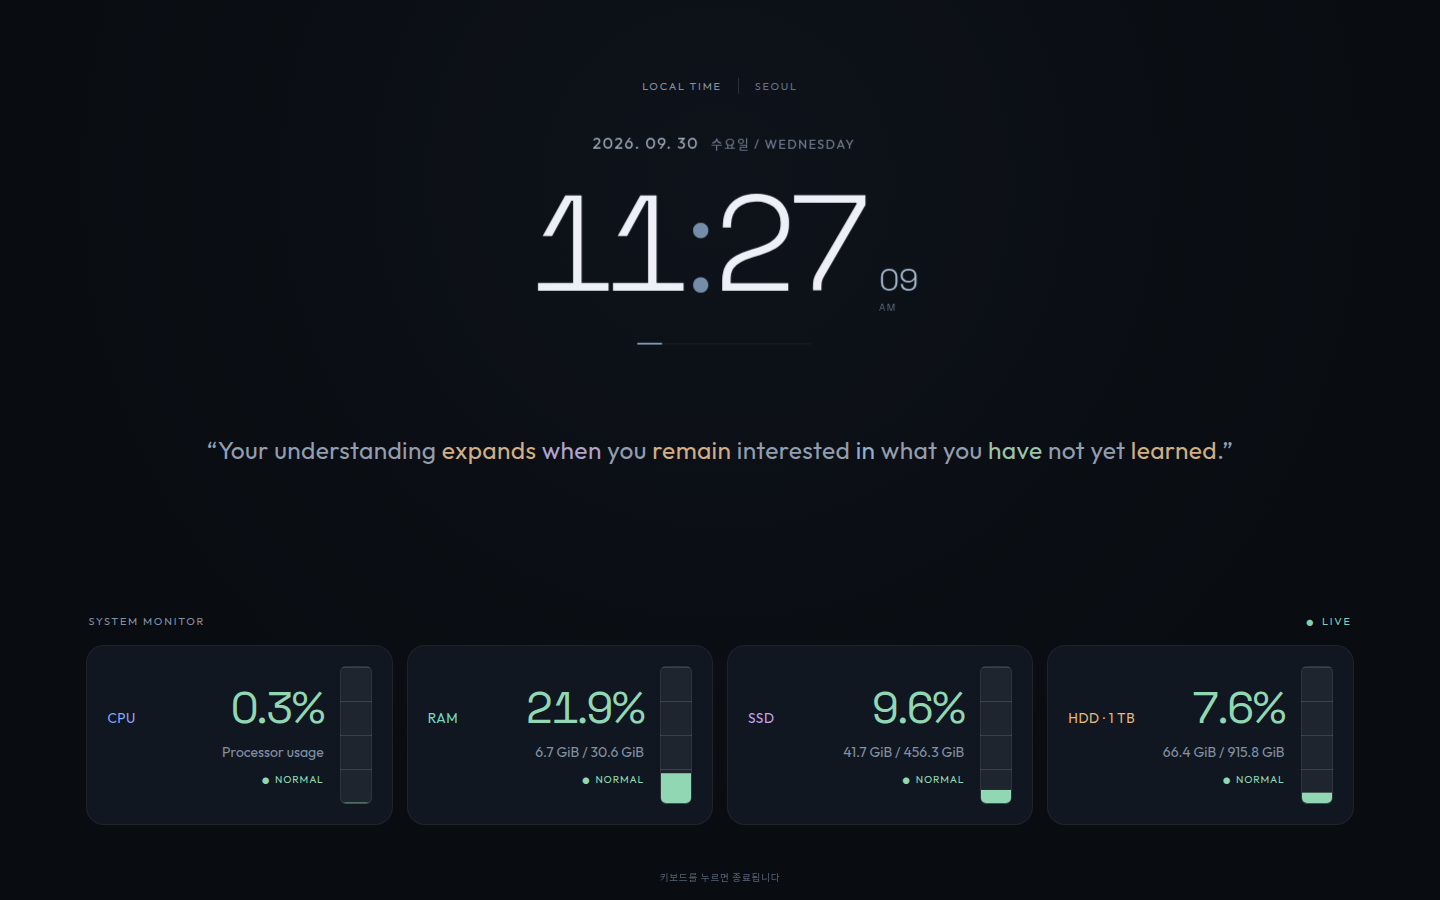
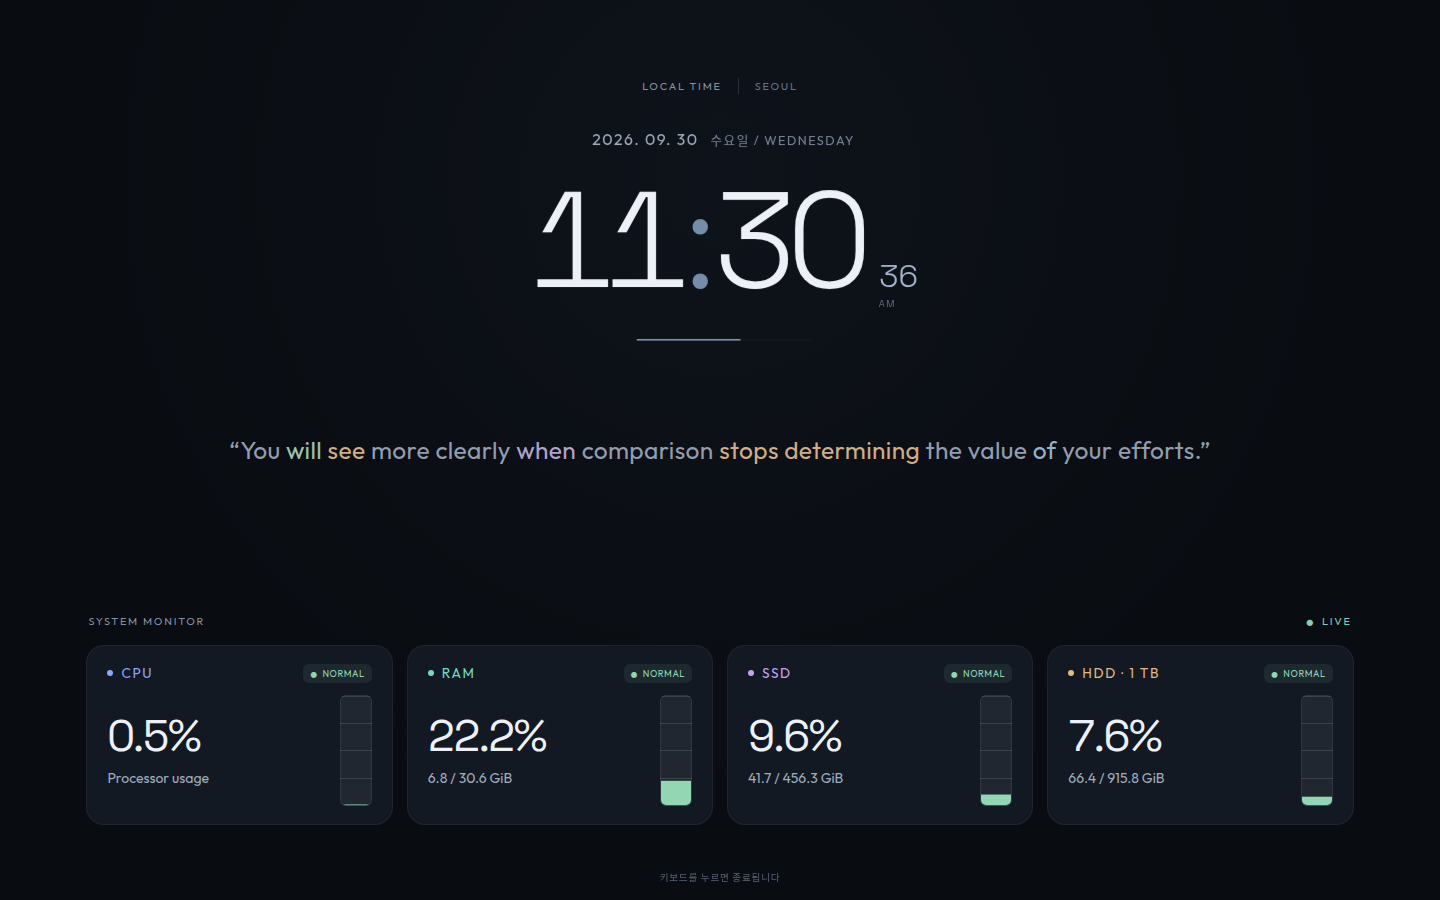
Improve resource card hierarchy and readability

diff --git a/src/style.css b/src/style.css
@@ -57,29 +57,32 @@ body {
 .resource-card {
   --severity: #91d7b3;
   min-width: 0; display: grid; grid-template-columns: minmax(0, 1fr) 32px;
-  align-items: center; gap: 16px; height: clamp(156px, 20vh, 188px); padding: 20px;
-  border: 1px solid #ffffff0e; border-radius: 18px; background: #111720;
+  grid-template-rows: auto minmax(0, 1fr); align-items: center; gap: 12px 16px; height: clamp(168px, 20vh, 192px); padding: 18px 20px;
+  border: 1px solid #ffffff0e; border-radius: 18px; background: #121923;
 }
 .resource-card[data-level="warning"] { --severity: #edd08c; border-color: #edd08c35; }
 .resource-card[data-level="high"] { --severity: #efa3a3; border-color: #efa3a345; background: #21191e; }
 .resource-card[data-level="offline"] { --severity: #7a879b; }
-.resource-readout { order: 1; min-width: 0; text-align: left; }
-.resource-primary { display: flex; align-items: baseline; justify-content: space-between; flex-wrap: wrap; gap: 8px; }
-.resource-label { color: #8ca8ff; font-size: 0.85rem; font-weight: 500; letter-spacing: 0.04em; white-space: nowrap; }
+.resource-heading { grid-column: 1 / -1; grid-row: 1; display: flex; justify-content: space-between; align-items: center; gap: 8px; }
+.resource-readout { grid-column: 1; grid-row: 2; min-width: 0; text-align: left; }
+.resource-primary { display: flex; align-items: baseline; justify-content: flex-start; flex-wrap: wrap; gap: 8px; }
+.resource-label { color: #8ca8ff; font-size: 0.85rem; font-weight: 500; letter-spacing: 0.12em; white-space: nowrap; }
+.resource-label::before { content: ''; display: inline-block; width: 6px; height: 6px; margin-right: 8px; border-radius: 50%; background: currentColor; vertical-align: 2px; }
 .resource-ram .resource-label { color: #74d9c4; }
 .resource-disk .resource-label { color: #c4a5f5; }
 .resource-hdd .resource-label { color: #e7b97d; }
 .resource-value {
-  color: var(--severity); font-family: 'Space Grotesk', monospace;
+  color: #edf1f7; font-family: 'Space Grotesk', monospace;
   font-size: clamp(2rem, 3.2vw, 2.75rem); font-variant-numeric: tabular-nums;
   line-height: 1.1; letter-spacing: -0.04em;
 }
-.resource-secondary { display: flex; flex-direction: column; align-items: flex-end; gap: 10px; margin-top: 10px; }
-.resource-detail { color: #8290a3; font-size: 0.875rem; line-height: 1.5; white-space: nowrap; }
-.resource-level { color: var(--severity); font-size: 0.65rem; letter-spacing: 0.08em; white-space: nowrap; }
+.resource-secondary { display: flex; flex-direction: column; align-items: flex-start; gap: 8px; margin-top: 8px; }
+.resource-detail { color: #a0adbe; font-size: 0.875rem; line-height: 1.5; white-space: nowrap; }
+.resource-level { color: var(--severity); font-size: 0.58rem; letter-spacing: 0.06em; white-space: nowrap; padding: 4px 7px; border-radius: 6px; background: color-mix(in srgb, var(--severity) 9%, transparent); }
+.resource-card:is([data-level="warning"], [data-level="high"]) .resource-value { color: var(--severity); }
 .resource-level::before { content: '●'; margin-right: 5px; font-size: 0.7em; }
 .resource-track {
-  order: 2; width: 32px; height: 100%; border: 1px solid #ffffff12; border-radius: 6px; overflow: hidden;
+  grid-column: 2; grid-row: 2; width: 32px; height: 100%; border: 1px solid #ffffff12; border-radius: 6px; overflow: hidden;
   background: repeating-linear-gradient(to top, transparent 0, transparent calc(25% - 1px), #ffffff20 calc(25% - 1px), #ffffff20 25%), #ffffff10;
 }
 .resource-fill {
@@ -108,7 +111,7 @@ body {
 @media (max-width: 900px) {
   .screen-grid { grid-template-rows: minmax(0, 1fr) auto auto; gap: 16px; padding: 24px 28px 44px; }
   .resource-list { grid-template-columns: repeat(2, minmax(0, 1fr)); gap: 12px; }
-  .resource-card { height: clamp(112px, 17vh, 150px); padding: 18px 20px; }
+  .resource-card { height: clamp(132px, 19vh, 160px); padding: 12px 18px; row-gap: 8px; }
   .resource-primary { flex-wrap: nowrap; }
   .resource-secondary { gap: 6px; margin-top: 8px; }
   .resource-detail { font-size: 0.8rem; }
@@ -121,7 +124,11 @@ body {
   .resource-card { gap: 10px; padding: 16px 12px; border-radius: 14px; grid-template-columns: minmax(0, 1fr) 18px; }
   .resource-track { width: 18px; border-radius: 4px; }
   .resource-primary { gap: 5px; flex-wrap: wrap; }
-  .resource-label { font-size: 0.6rem; }
+  .resource-heading { gap: 4px; }
+  .resource-label { font-size: 0.6rem; letter-spacing: 0.04em; }
+  .resource-label::before { width: 4px; height: 4px; margin-right: 5px; vertical-align: 1px; }
+  .resource-level { padding: 3px 5px; font-size: 0.5rem; }
+  .resource-level::before { margin-right: 3px; }
   .resource-value { font-size: 1.5rem; }
   .resource-detail { font-size: 0.65rem; }
   .date-row { gap: 8px; letter-spacing: 0.04em; }
@@ -135,13 +142,17 @@ body {
   .progress-bar-container { margin-top: 12px; }
   .monitor-panel .panel-heading { margin-bottom: 8px; font-size: 0.6rem; }
   .resource-list { grid-template-columns: repeat(4, minmax(0, 1fr)); gap: 8px; }
-  .resource-card { height: 100px; padding: 12px 10px; gap: 8px; grid-template-columns: minmax(0, 1fr) 18px; }
+  .resource-card { height: 112px; padding: 10px; gap: 4px 8px; grid-template-columns: minmax(0, 1fr) 18px; }
   .resource-track { width: 18px; border-radius: 4px; }
   .resource-primary { flex-wrap: wrap; gap: 4px; }
   .resource-value { font-size: 1.35rem; }
   .resource-label, .resource-detail { font-size: 0.55rem; }
   .resource-secondary { gap: 4px; margin-top: 6px; }
-  .resource-level { font-size: 0.5rem; }
+  .resource-heading { gap: 4px; }
+  .resource-label { letter-spacing: 0.04em; }
+  .resource-label::before { width: 4px; height: 4px; margin-right: 5px; vertical-align: 1px; }
+  .resource-level { font-size: 0.5rem; padding: 3px 5px; }
+  .resource-level::before { margin-right: 3px; }
   .quote-content { height: 32px; padding-top: 4px; padding-bottom: 4px; }
   .guide-hint { bottom: 8px; }
 }

diff --git a/index.html b/index.html
@@ -31,31 +31,35 @@
       <header class="panel-heading"><span>SYSTEM MONITOR</span><span id="liveLabel">CONNECTING</span></header>
       <div class="panel-content resource-list">
         <div class="resource-card resource-cpu" data-level="offline">
+          <div class="resource-heading"><span class="resource-label">CPU</span><span class="resource-level" id="cpuLevel">CONNECTING</span></div>
           <div class="resource-track"><div class="resource-fill" id="cpuBar"></div></div>
           <div class="resource-readout">
-            <div class="resource-primary"><span class="resource-label">CPU</span><span class="resource-value" id="cpuValue">—</span></div>
-            <div class="resource-secondary"><span class="resource-detail" id="cpuDetail">Processor usage</span><span class="resource-level" id="cpuLevel">CONNECTING</span></div>
+            <div class="resource-primary"><span class="resource-value" id="cpuValue">—</span></div>
+            <div class="resource-secondary"><span class="resource-detail" id="cpuDetail">Processor usage</span></div>
           </div>
         </div>
         <div class="resource-card resource-ram" data-level="offline">
+          <div class="resource-heading"><span class="resource-label">RAM</span><span class="resource-level" id="ramLevel">CONNECTING</span></div>
           <div class="resource-track"><div class="resource-fill" id="ramBar"></div></div>
           <div class="resource-readout">
-            <div class="resource-primary"><span class="resource-label">RAM</span><span class="resource-value" id="ramValue">—</span></div>
-            <div class="resource-secondary"><span class="resource-detail" id="ramDetail">Used / Total</span><span class="resource-level" id="ramLevel">CONNECTING</span></div>
+            <div class="resource-primary"><span class="resource-value" id="ramValue">—</span></div>
+            <div class="resource-secondary"><span class="resource-detail" id="ramDetail" title="사용량 / 전체 용량">Used / Total</span></div>
           </div>
         </div>
         <div class="resource-card resource-disk" data-level="offline">
+          <div class="resource-heading"><span class="resource-label">SSD</span><span class="resource-level" id="diskLevel">CONNECTING</span></div>
           <div class="resource-track"><div class="resource-fill" id="diskBar"></div></div>
           <div class="resource-readout">
-            <div class="resource-primary"><span class="resource-label">SSD</span><span class="resource-value" id="diskValue">—</span></div>
-            <div class="resource-secondary"><span class="resource-detail" id="diskDetail">Used / Total</span><span class="resource-level" id="diskLevel">CONNECTING</span></div>
+            <div class="resource-primary"><span class="resource-value" id="diskValue">—</span></div>
+            <div class="resource-secondary"><span class="resource-detail" id="diskDetail" title="사용량 / 전체 용량">Used / Total</span></div>
           </div>
         </div>
         <div class="resource-card resource-hdd" data-level="offline">
+          <div class="resource-heading"><span class="resource-label">HDD · 1 TB</span><span class="resource-level" id="hddLevel">CONNECTING</span></div>
           <div class="resource-track"><div class="resource-fill" id="hddBar"></div></div>
           <div class="resource-readout">
-            <div class="resource-primary"><span class="resource-label">HDD · 1 TB</span><span class="resource-value" id="hddValue">—</span></div>
-            <div class="resource-secondary"><span class="resource-detail" id="hddDetail">Used / Total</span><span class="resource-level" id="hddLevel">CONNECTING</span></div>
+            <div class="resource-primary"><span class="resource-value" id="hddValue">—</span></div>
+            <div class="resource-secondary"><span class="resource-detail" id="hddDetail" title="사용량 / 전체 용량">Used / Total</span></div>
           </div>
         </div>
       </div>

diff --git a/src/dashboard.ts b/src/dashboard.ts
@@ -11,7 +11,7 @@ const thresholds: Record<ResourceName, [number, number]> = {
   const statusEl = document.getElementById('resourceStatus')!;
   const liveEl = document.getElementById('liveLabel')!;
   let frontendVersion: string | undefined;
-  const gib = (bytes: number) => `${(bytes / (1024 ** 3)).toFixed(1)} GiB`;
+  const gib = (bytes: number) => (bytes / (1024 ** 3)).toFixed(1);
   function setText(element: HTMLElement, value: string) {
     if (element.textContent !== value) element.textContent = value;
   }
@@ -49,7 +49,7 @@ const thresholds: Record<ResourceName, [number, number]> = {
         setText(levelEl, { normal: 'NORMAL', warning: 'WATCH', high: 'HIGH' }[level]);
         card.title = `주의 ${warning}% · 높음 ${high}%`;
         setText(valueEl, `${resource.percent.toFixed(1)}%`);
-        if (name !== 'cpu') setText(document.getElementById(`${name}Detail`)!, `${gib(resource.used)} / ${gib(resource.total)}`);
+        if (name !== 'cpu') setText(document.getElementById(`${name}Detail`)!, `${gib(resource.used)} / ${gib(resource.total)} GiB`);
       }
       setText(statusEl, '');
       setText(liveEl, 'LIVE');

diff --git a/README.md b/README.md
@@ -56,9 +56,9 @@ After moving an installed folder, run `./install.sh` again to update paths.
 - Used and total capacity in GiB and percentages.
 - One wide, high-contrast vertical usage gauge per resource, with quarter-scale marks.
 - Readings update smoothly without clearing the previous values.
-- Wide gauges sit on the right; colored labels, prominent percentages, and capacity
-  readings fill the remaining card space. Capacity details sit directly below
-  each percentage, followed by the status label.
+- Colored CPU, RAM, SSD, and HDD labels sit at the top, beside a compact status badge.
+- Wide gauges sit on the right; prominent percentages and capacity readings fill
+  the remaining card space. Capacity details sit directly below each percentage.
 - Green indicates normal usage, amber watch, and red high usage; labels accompany colors.
 - Watch/high defaults: CPU 60/85%, RAM 75/90%, both disks 80/90%.
 - Resource readings refresh three seconds after each completed request.
